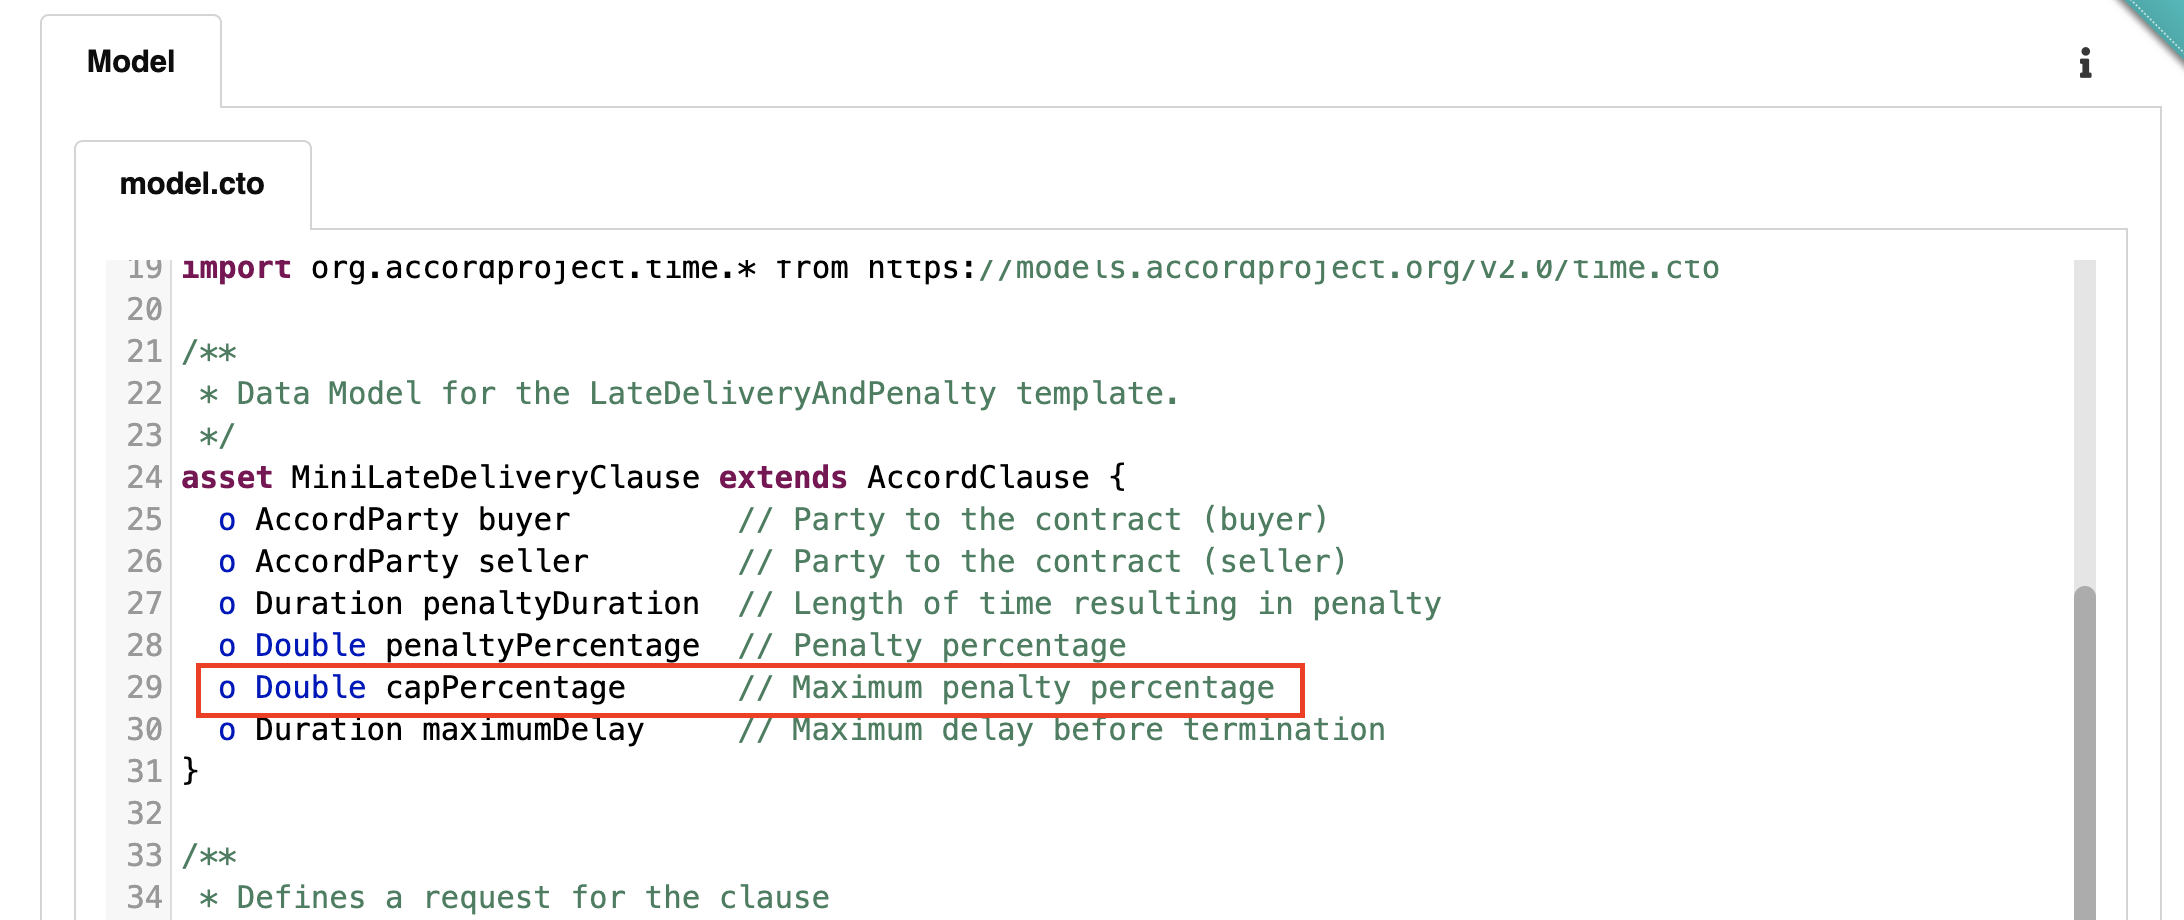
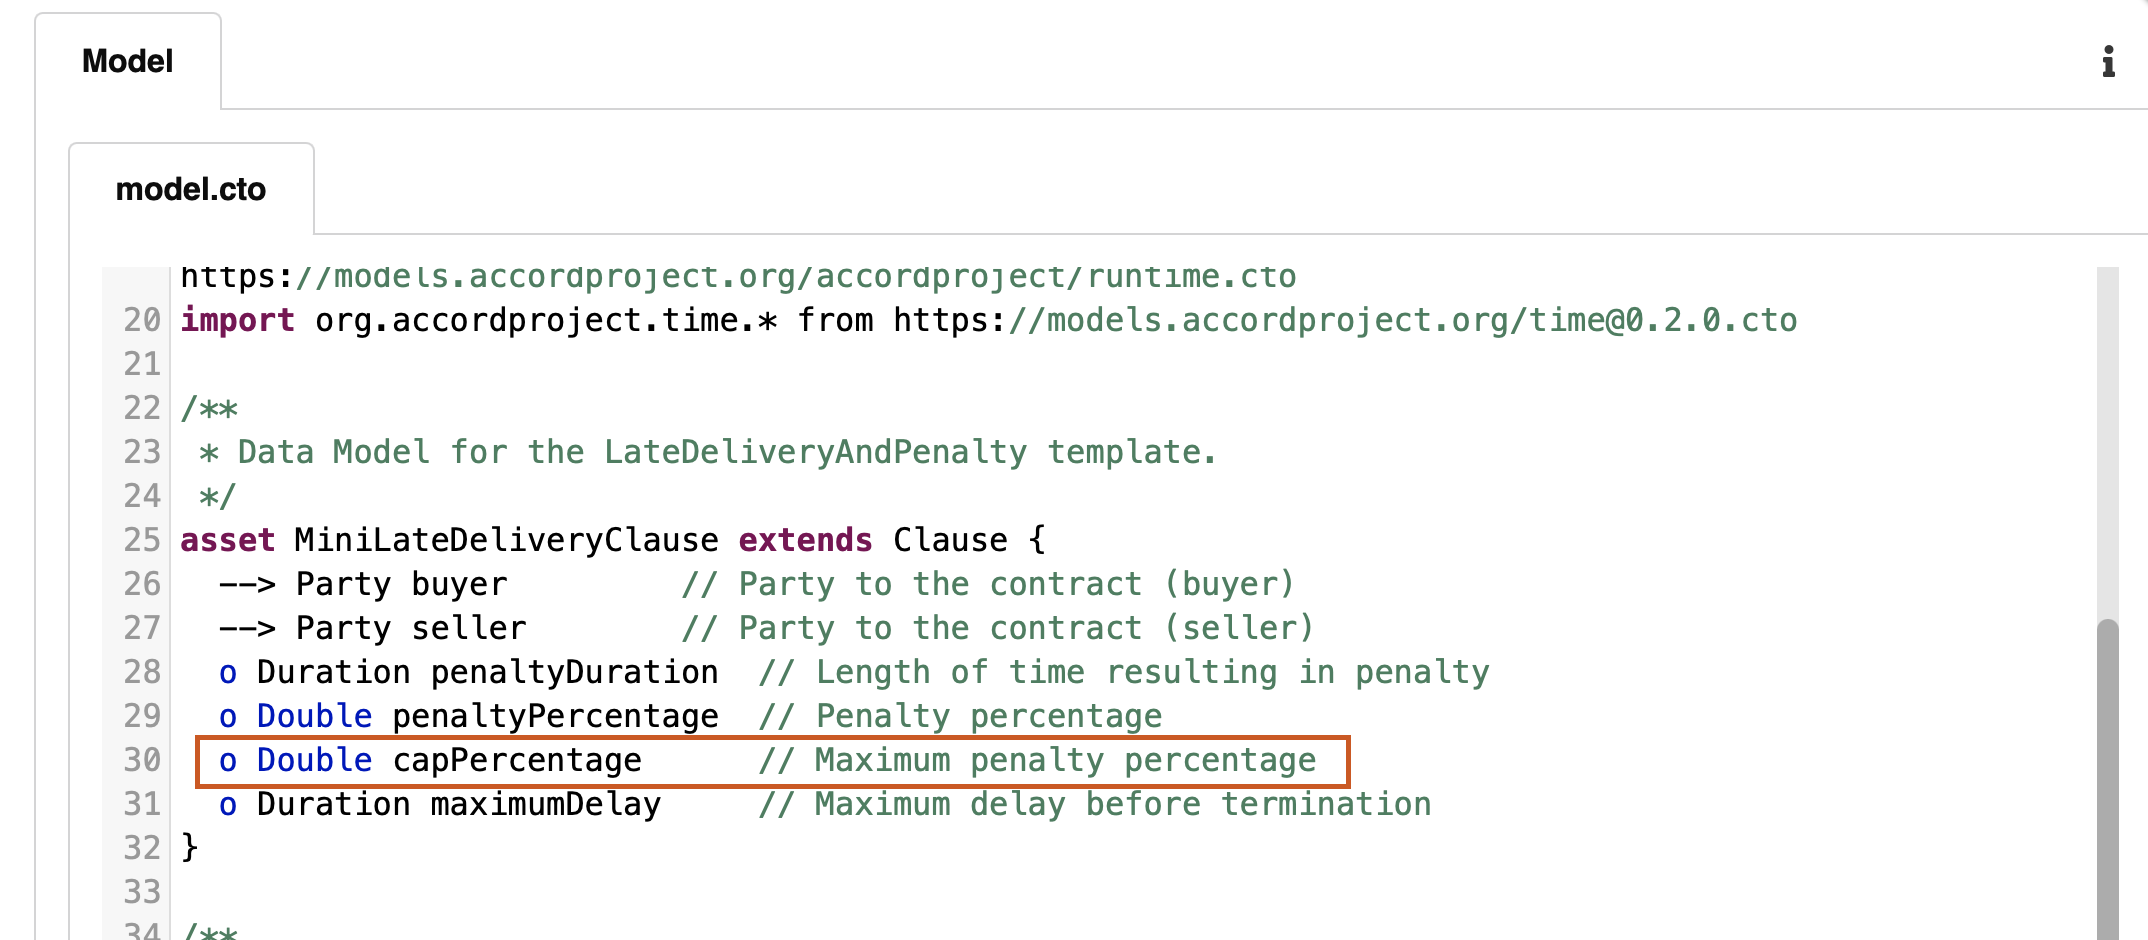
feature(tutorial) Update template studio tutorial for 0.22

diff --git a/docs/tutorial-studio.md b/docs/tutorial-studio.md
@@ -11,7 +11,7 @@ We start with a very simple _Late Penalty and Delivery_ Clause and gradually mak
 
 ### Load the Template
 
-To get started, head to the `minilatedeliveryandpenalty` template in the Accord Project Template Library at [Mini Late Delivery And Penalty](https://templates.accordproject.org/minilatedeliveryandpenalty@0.5.0.html) and click the "Open In Template Studio" button.
+To get started, head to the `minilatedeliveryandpenalty` template in the Accord Project Template Library at [Mini Late Delivery And Penalty](https://templates.accordproject.org/minilatedeliveryandpenalty@0.6.0.html) and click the "Open In Template Studio" button.
 
 ![Advanced-Late-1](assets/advanced/late1.png)
 
@@ -29,6 +29,10 @@ When the text in the `Grammar` tab is in sync with the text in the `Sample` tab,
 
 Changes to the variables in the `Sample` are reflected in the `Contract Data` tab in real time, and vice versa. For instance, change `Betty Buyer` to a different name in the contract text to see the `partyId` change in the contract data.
 
+:::note
+The JSON data `resource:org.accordproject.party.Party#Betty%20Buyer` indicate that the value is a relationship of type `Party` whose identifier is `Betty Buyer`. Consult the [Concerto Guide](model-relationships) for more details on modeling relationships.
+:::
+
 If you edit part of the text which is not a variable in the template, this results in an error when parsing the `Sample`. The error will be shown in red in the status bar at the bottom of the page. For instance, the following image shows the parsing error obtained when changing the word `delayed` to the word `timely` in the contract text.
 
 ![Advanced-Late-4](assets/advanced/late4.png)
@@ -43,8 +47,9 @@ Moving along to the `Model` section, you will find the data model for the templa
 
 ![Advanced-Late-5](assets/advanced/late5.png)
 
-Note that a `namespace` is declared at the beginning of the file for the model, and that several existing models are being imported (using e.g., `import org.accordproject.cicero.contract.*`). Those imports are needed to access the definition for several types used in the model:
-- `AccordClause` which is a generic type for all Accord Project clause templates, and is defined in the `org.accordproject.contract` namespace;
+Note that a `namespace` is declared at the beginning of the file for the model, and that several existing models are being imported (using e.g., `import org.accordproject.contract.*`). Those imports are needed to access the definition for several types used in the model:
+- `Clause` which is a generic type for all Accord Project clause templates, and is defined in the `org.accordproject.contract` namespace;
+- `Party` which is a generic type for all Accord Project parties, and is defined in the `org.accordproject.party` namespace;
 - `Request` and `Response` which are generic types for responses and requests, and are defined in the `org.accordproject.runtime` namespace;
 - `Duration` which is defined in the `org.accordproject.time` namespace.
 
@@ -122,9 +127,9 @@ To define this new variable, go to the `Model` tab, and change the `MiniLateDeli
 
 For convenience, you can copy-paste the new `MiniLateDeliveryClause` type from here:
 ```ergo
-asset MiniLateDeliveryClause extends AccordClause {
-  o AccordParty buyer         // Party to the contract (buyer)
-  o AccordParty seller        // Party to the contract (seller)
+asset MiniLateDeliveryClause extends Clause {
+  --> Party buyer         // Party to the contract (buyer)
+  --> Party seller        // Party to the contract (seller)
   o Duration penaltyDuration  // Length of time resulting in penalty
   o Double penaltyPercentage  // Penalty percentage
   o Double capPercentage      // Maximum penalty percentage
@@ -189,7 +194,7 @@ As a final test of the new template, you should try again to run the contract wi
 ![Advanced-Late-15](assets/advanced/late15.png)
 
 :::tip
-A full version of the template after those changes have been applied can be found as the [Mini Late Delivery And Penalty Capped](https://templates.accordproject.org/minilatedeliveryandpenalty-capped@0.5.0.html) in the Template Library.
+A full version of the template after those changes have been applied can be found as the [Mini Late Delivery And Penalty Capped](https://templates.accordproject.org/minilatedeliveryandpenalty-capped@0.6.0.html) in the Template Library.
 :::
 
 ## Emit a Payment Obligation.
@@ -198,7 +203,7 @@ As a final extension to this template, we can modify it to emit a Payment Obliga
 
 ### Switch to a Contract Template
 
-The first place to change is in the metadata for the template. This can be done easily with the `full contract` button in the `Current Template` tab. This will immediately result in an error indicating that the model does not contain an `AccordContract` type.
+The first place to change is in the metadata for the template. This can be done easily with the `full contract` button in the `Current Template` tab. This will immediately result in an error indicating that the model does not contain an `Contract` type.
 
 ![Advanced-Late-16](assets/advanced/late16.png)
 
@@ -206,9 +211,9 @@ The first place to change is in the metadata for the template. This can be done 
 
 To fix this, change the model to reflect that we are now editing a contract template, and change the type `AccordClause` to `AccordContract` in the type definition for the template variables:
 ```ergo
-asset MiniLateDeliveryContract extends AccordContract {
-  o AccordParty buyer         // Party to the contract (buyer)
-  o AccordParty seller        // Party to the contract (seller)
+asset MiniLateDeliveryContract extends Contract {
+  --> Party buyer         // Party to the contract (buyer)
+  --> Party seller        // Party to the contract (seller)
   o Duration penaltyDuration  // Length of time resulting in penalty
   o Double penaltyPercentage  // Penalty percentage
   o Double capPercentage      // Maximum penalty percentage
@@ -262,5 +267,5 @@ That's it! You can observe in the `Request` tab that an `Obligation` is now bein
 ![Advanced-Late-17](assets/advanced/late17.png)
 
 :::tip
-A full version of the template after those changes have been applied can be found as the [Mini-Late Delivery and Penalty Payment](https://templates.accordproject.org/minilatedeliveryandpenalty-payment@0.5.0.html) in the Template Library.
+A full version of the template after those changes have been applied can be found as the [Mini-Late Delivery and Penalty Payment](https://templates.accordproject.org/minilatedeliveryandpenalty-payment@0.6.0.html) in the Template Library.
 :::
